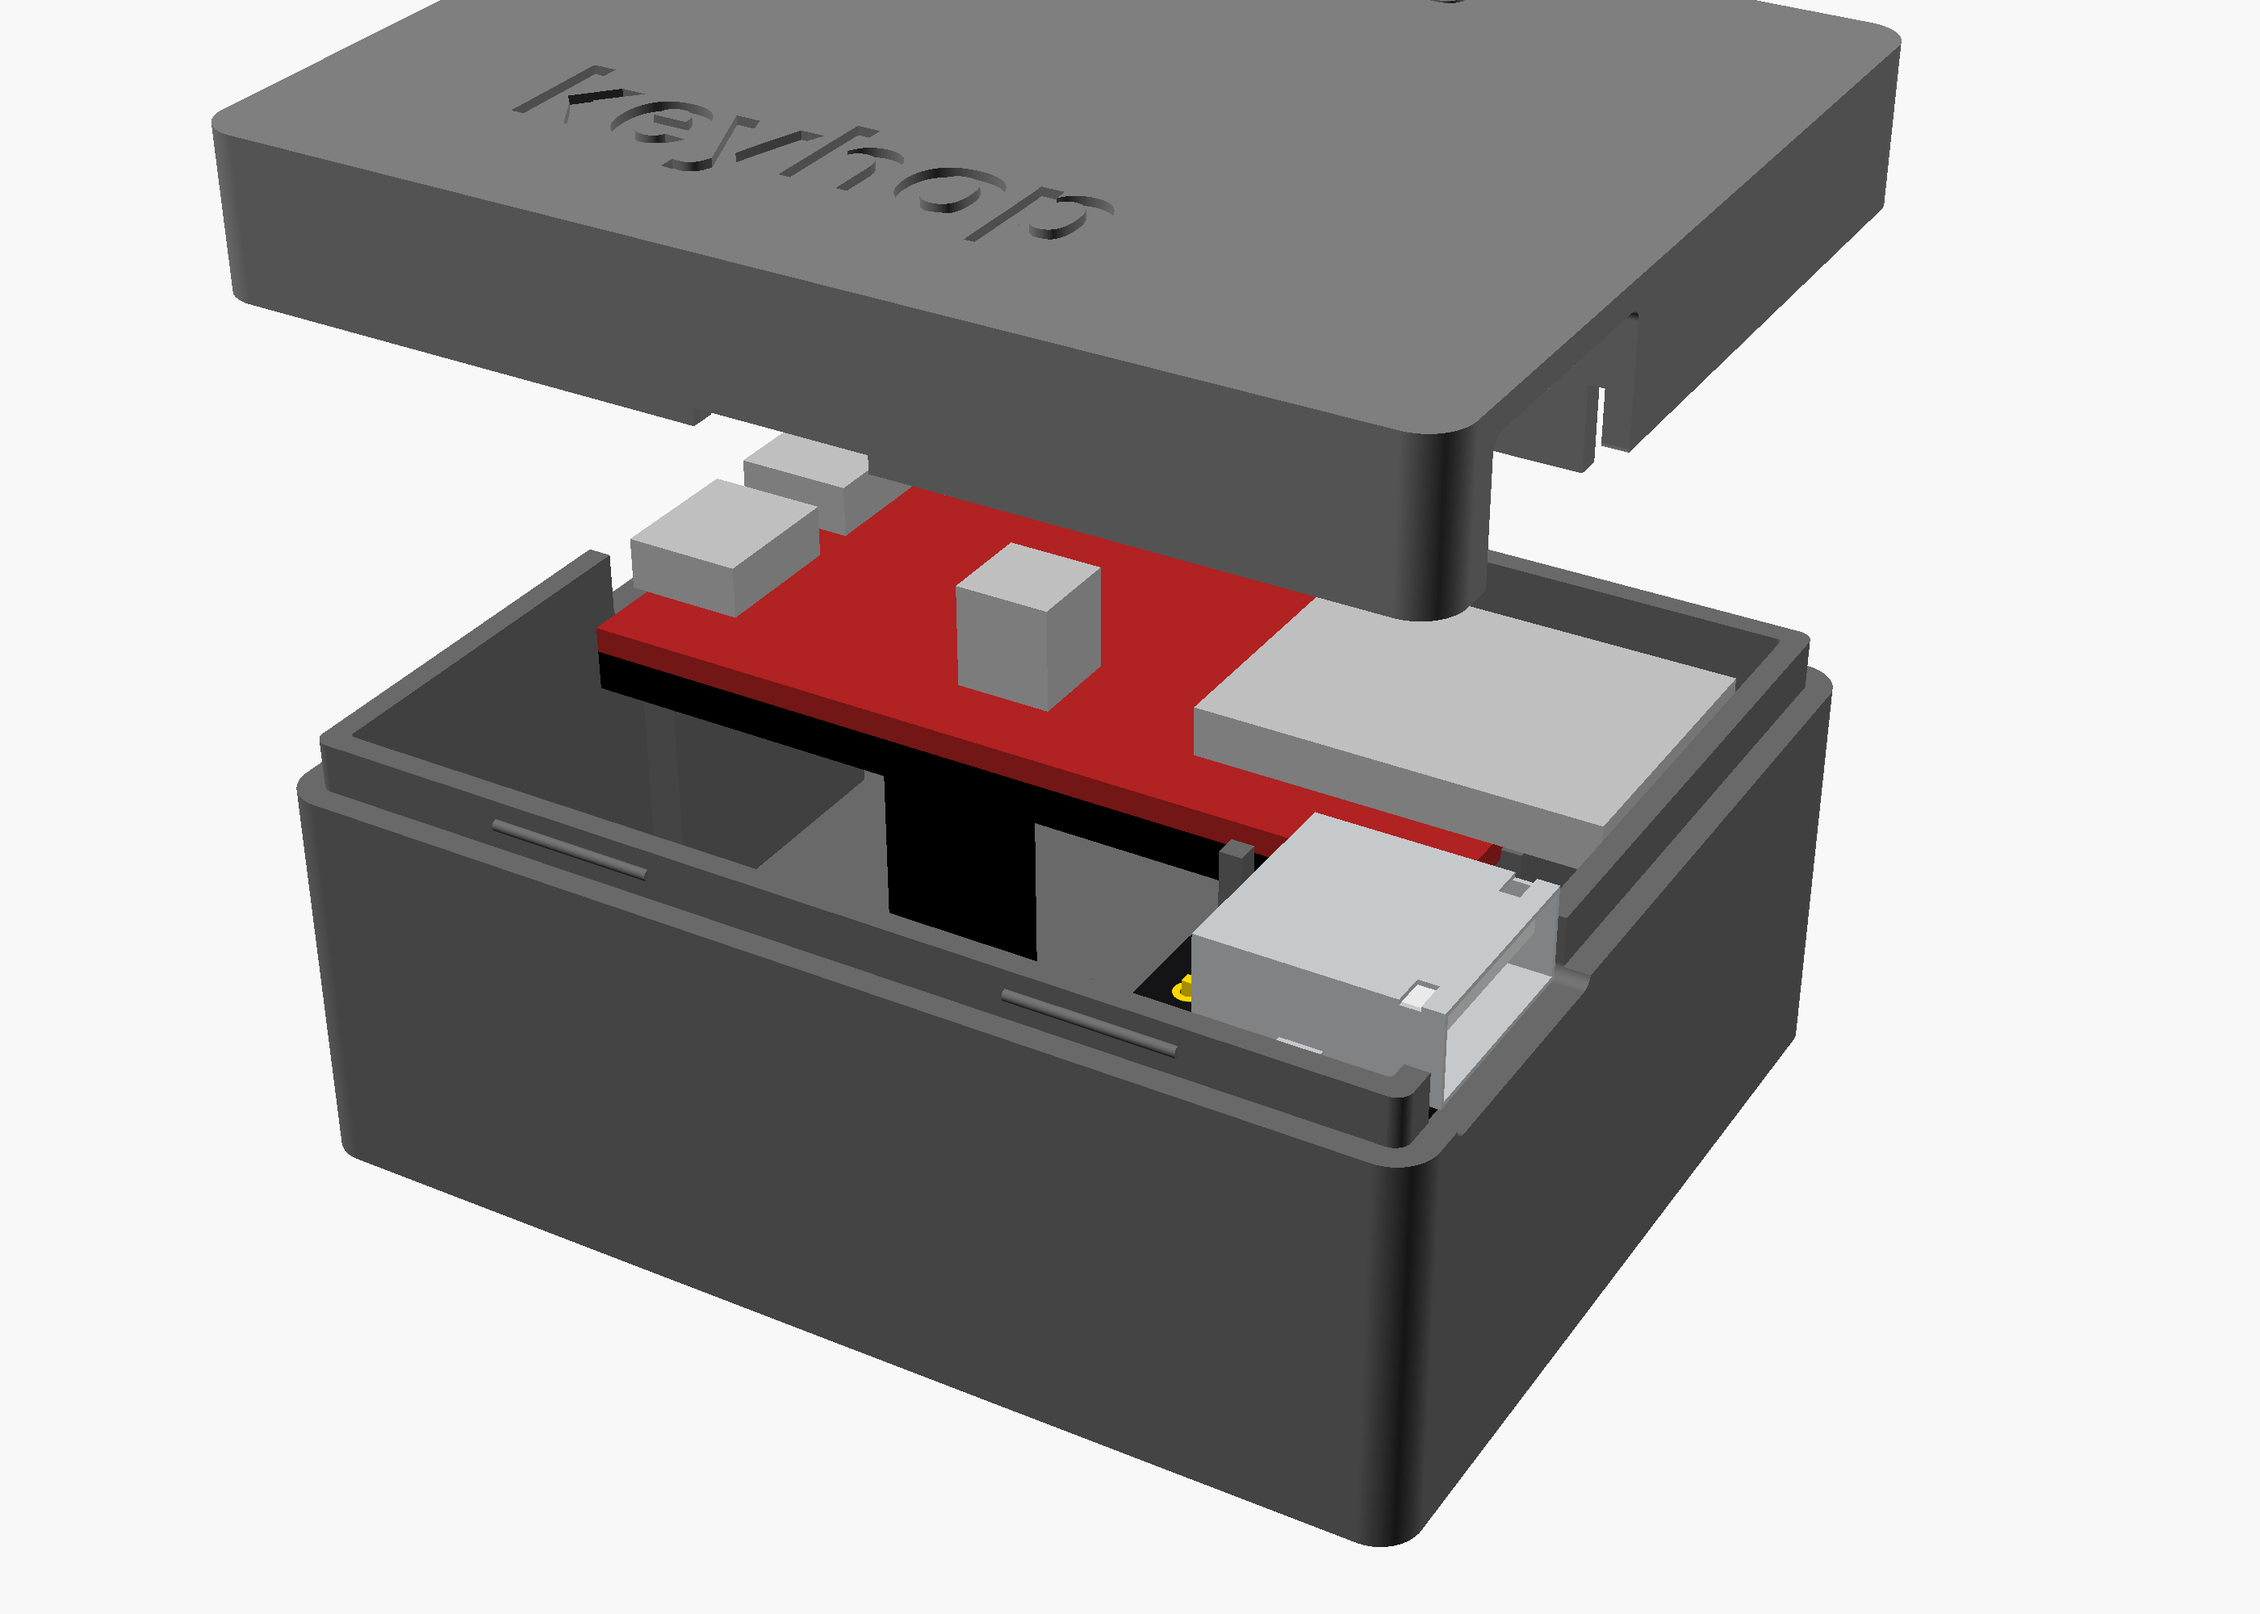
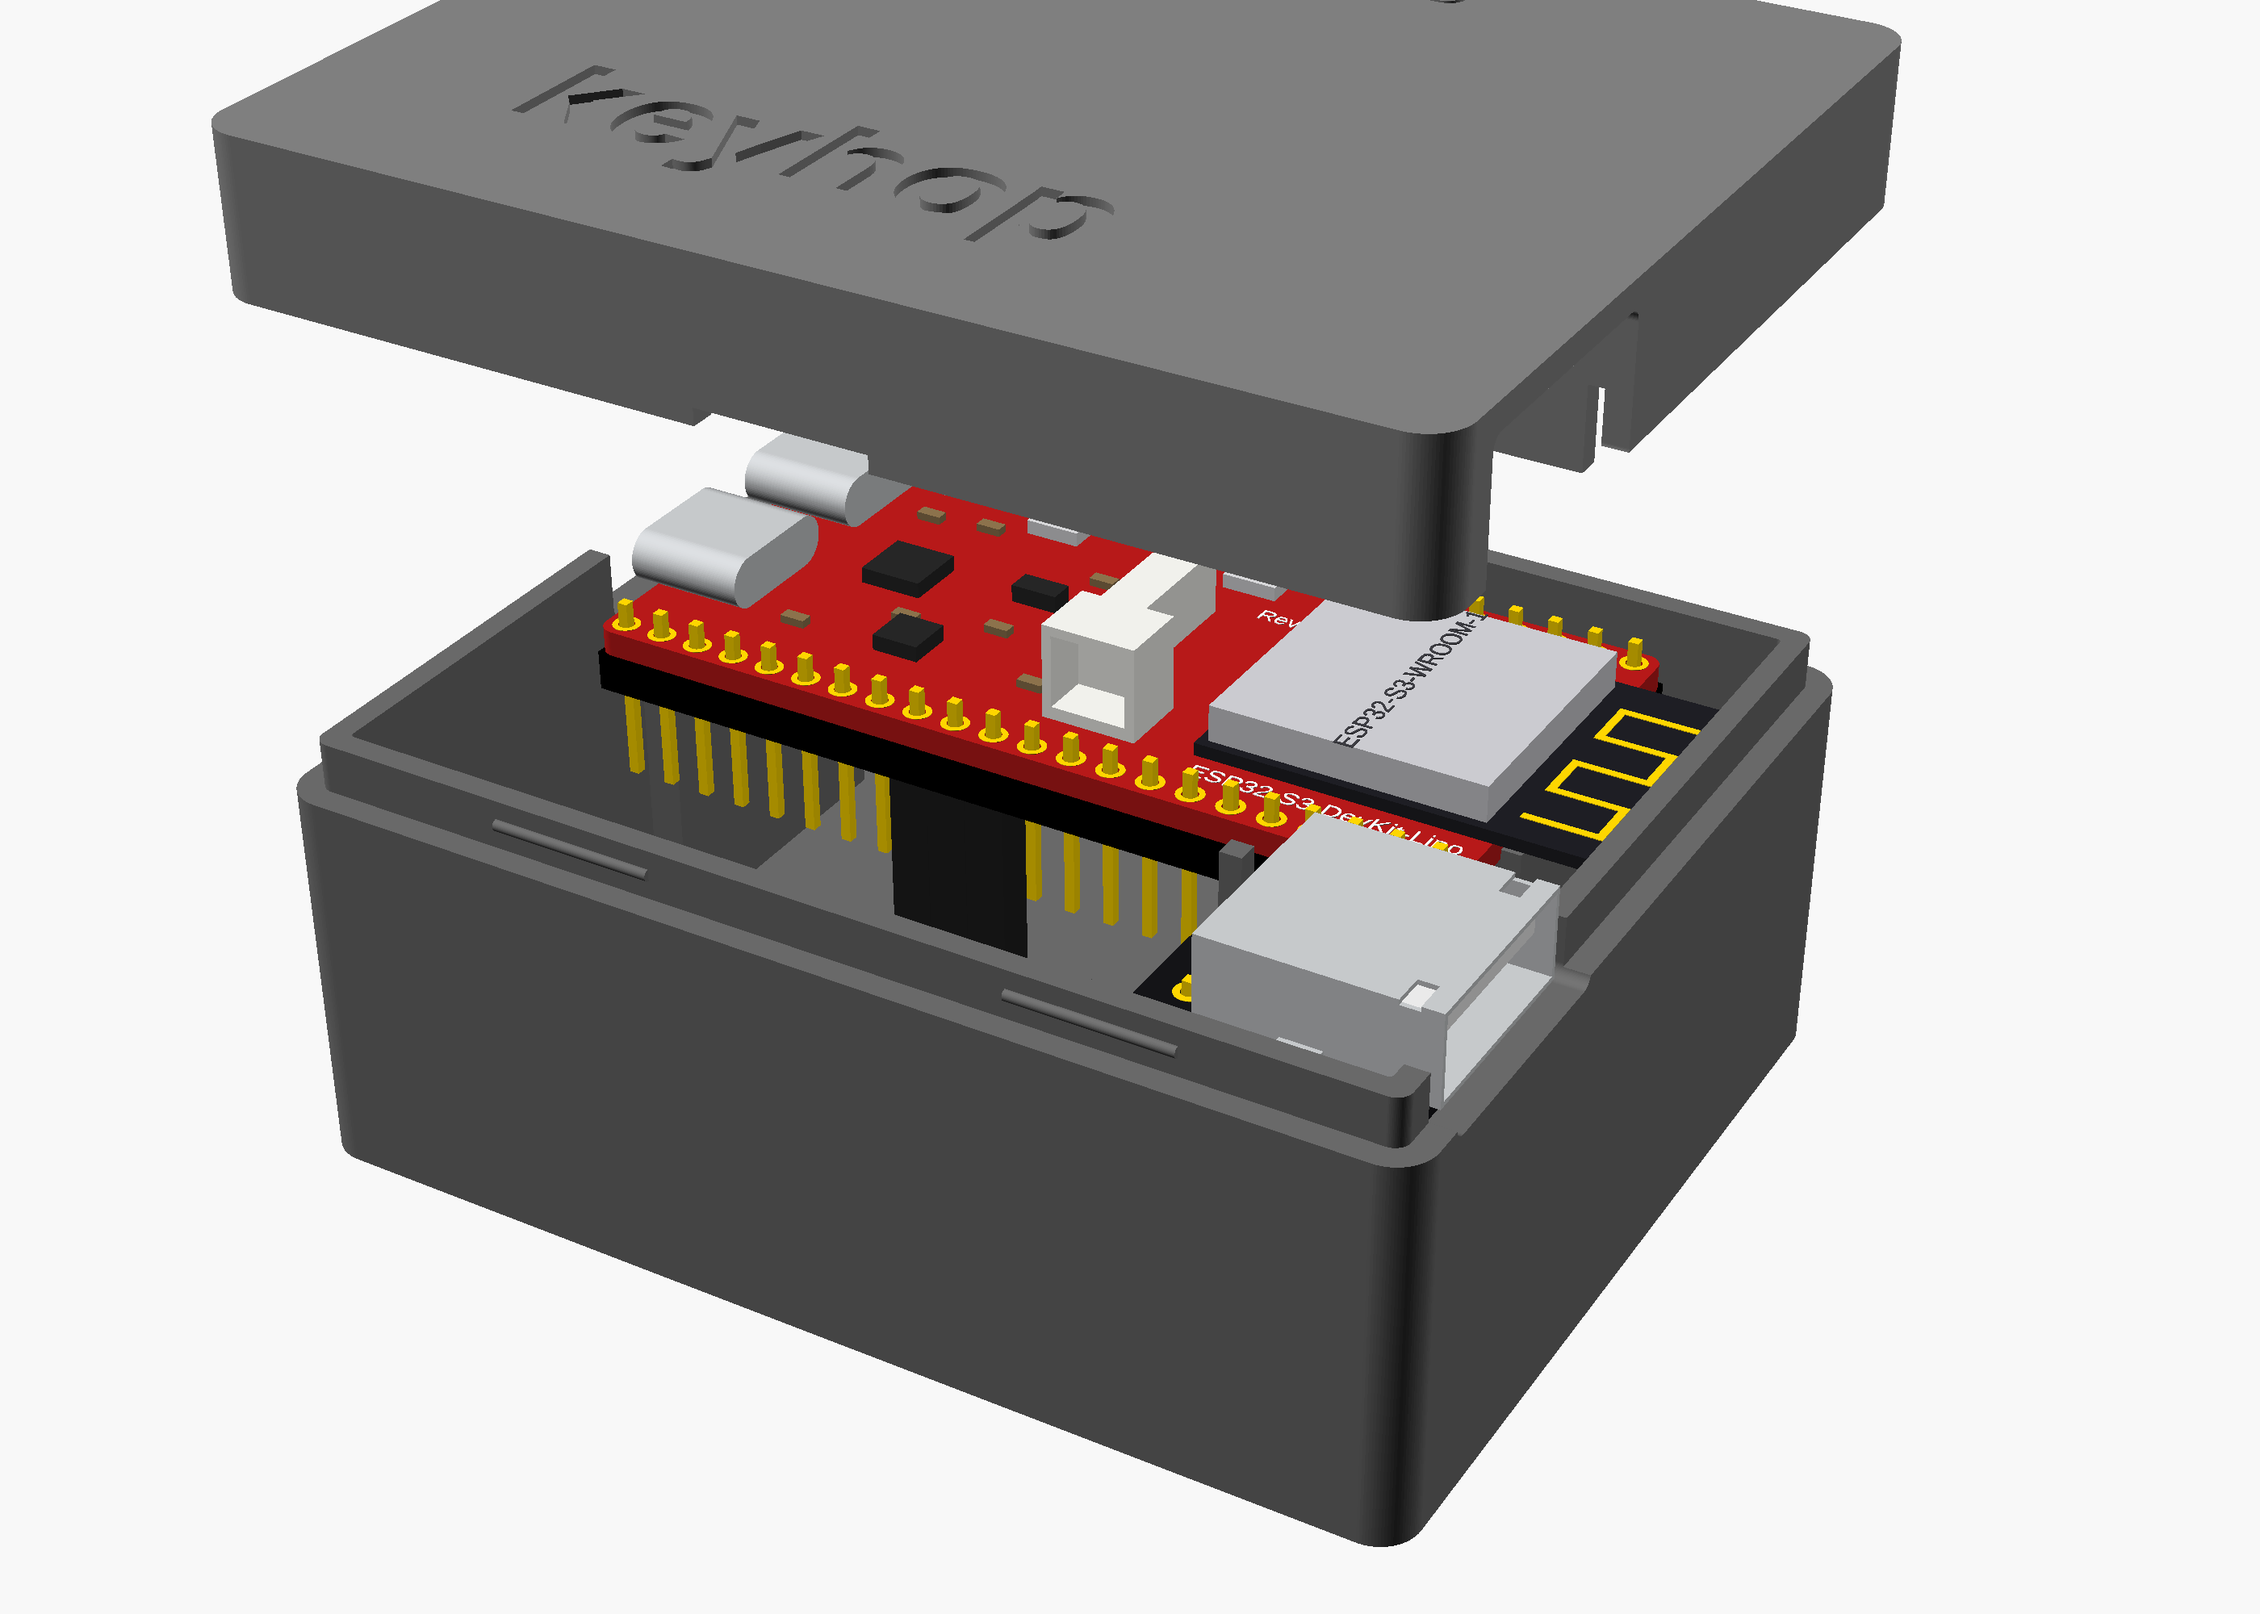
Proto case renders: more detailed Olimex board model
Roughly 20% realism: rounded red PCB with 44 header holes, pin stubs and
pins below, two hollow USB-C shells with tongues, WROOM module PCB with
can, label and antenna trace on the overhang, RESET/BOOT buttons, LEDs,
white battery and vertical connectors, a few chips and passives, and
silkscreen. Placed from the photos and kept inside the envelope the case
was designed for; overlap check still clean. New Olimex close-up.
STLs unchanged.

Changed region(s): [[0.2486, 0.31, 0.7768, 0.558], [0.435, 0.496, 0.5282, 0.589], [0.3107, 0.279, 0.3729, 0.341]]

diff --git a/hardware/enclosure-proto/README.md b/hardware/enclosure-proto/README.md
@@ -9,6 +9,10 @@ With the boards inside (lid off; boards are simple stand-in blocks: red = Olimex
 
 ![boards inside](renders/case-inside-top.png)
 
+The Olimex close up:
+
+![Olimex close-up](renders/case-olimex-closeup.png)
+
 The USB-A breakout close up, inside and from outside:
 
 ![USB-A breakout close-up](renders/case-usba-closeup.png)
@@ -57,7 +61,7 @@ Pictures (2800 × 2000, smooth curves, in colour; run under `xvfb-run -a -s '-sc
         --imgsize=2800,2000 --camera=33,26,12,50,0,25,210 -o renders/case-inside-top.png keyhop-proto-case.scad
 
 Other views: `part="exploded"` with `--camera=35,25,20,58,0,30,230`, `part="assembly"` with
-`35,25,15,60,0,215,200`, `part="inside"` with `33,26,12,55,0,320,210` (case-inside-usba.png) and `56,10,24,40,0,300,70` (case-usba-closeup.png),
+`35,25,15,60,0,215,200`, `part="inside"` with `33,26,12,55,0,320,210` (case-inside-usba.png) `56,10,24,40,0,300,70` (case-usba-closeup.png) and `30,35,24,45,0,20,105` (case-olimex-closeup.png),
 `part="assembly"` with `110,-25,45,64,9,26` (case-usba-outside.png).
 The `libEGL ... Permission denied` warnings are harmless (software rendering).
 
